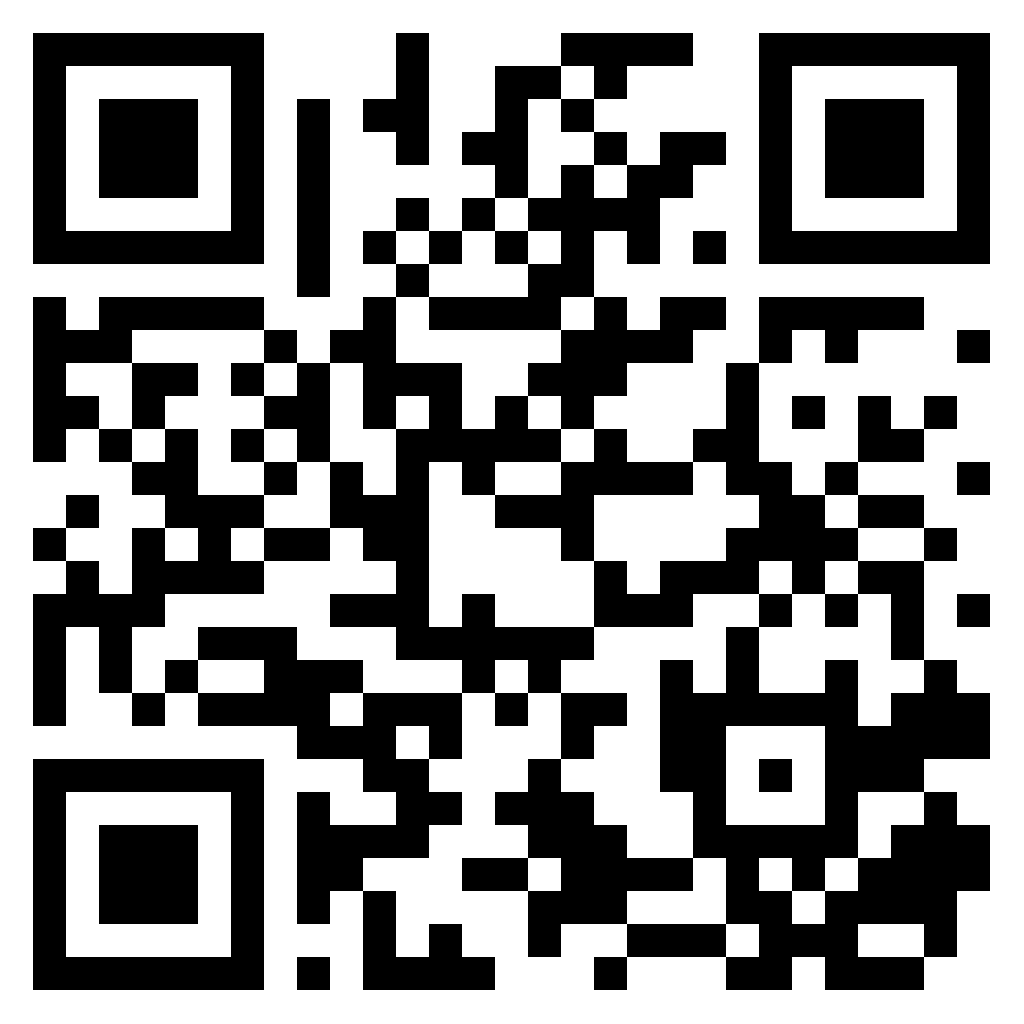
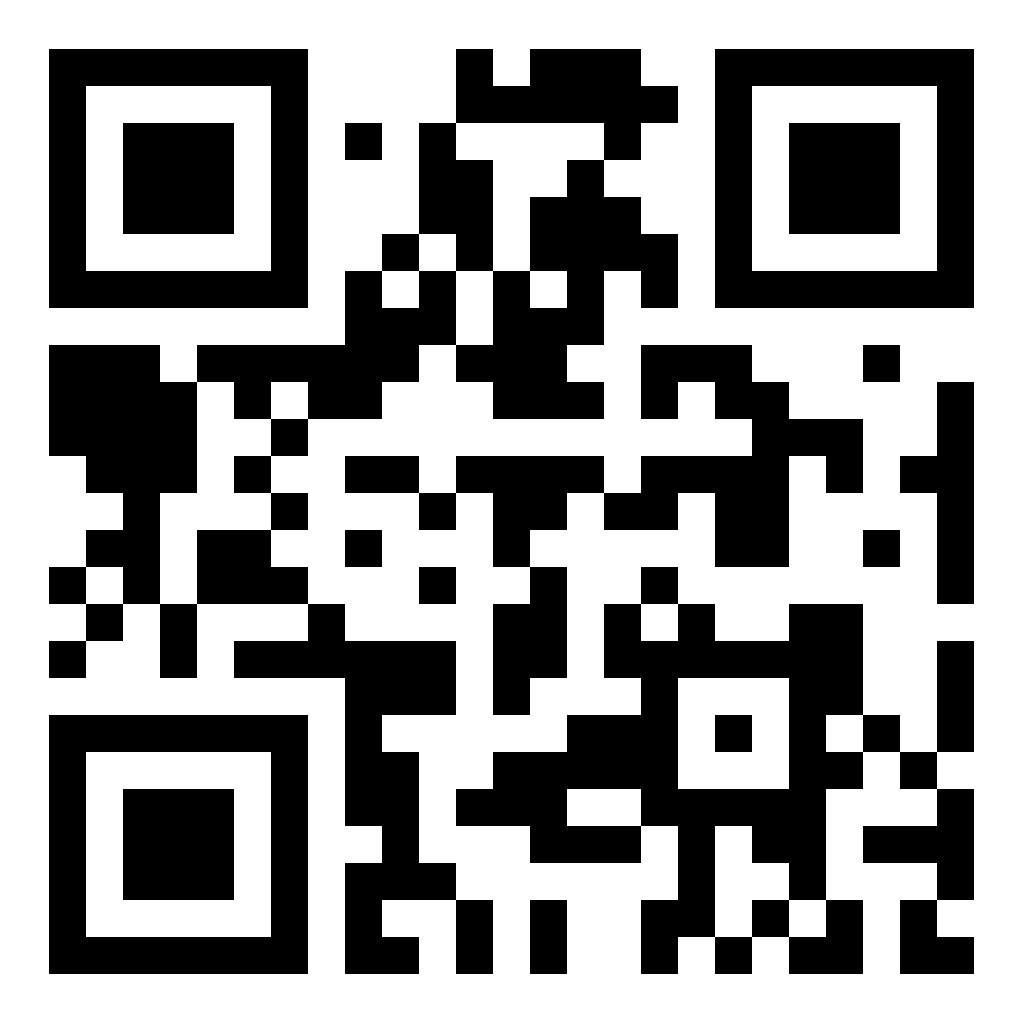
fix to url routes

diff --git a/templates/first_lens_form.html b/templates/first_lens_form.html
@@ -28,13 +28,14 @@
         </label>
         <hr>
 
+        <h1>Add an experience</h1>
+        <hr>
         <strong>Progress (0/6)</strong>
         <div class="progress">
             <div class="progress-bar" role="progressbar" aria-valuenow="0" aria-valuemin="0" aria-valuemax="100"></div>
         </div>
         <hr>
 
-            <h1>Add an experience</h1>
 
             <h2>1. Name your experience</h2>
             

diff --git a/templates/view_community.html b/templates/view_community.html
@@ -14,7 +14,7 @@
 
             <p>{{ community.code }}</p>
 
-            <img width="300" height="300" src="{{ qrcode }}">
+            <img loading=lazy width="300" height="300" src="{{ qrcode }}">
 
             <a href="{{ community_url }}">Link to Community</a>
 

diff --git a/webapp/src/handlers/community_handler.rs b/webapp/src/handlers/community_handler.rs
@@ -85,7 +85,7 @@ pub async fn view_community(
 
     let host_name = req.app_config().host();
 
-    let community_url = format!("https://{}/community/{}", host_name, &community_slug);
+    let community_url = format!("/community/{}", &community_slug);
 
     // qr_code
     if !Path::new(&format!("webapp/static/tmp/{}.png",community_slug)).exists() {
@@ -101,7 +101,7 @@ pub async fn view_community(
     let community = Communities::find_from_slug(&community_slug).expect("Could not load community");
     ctx.insert("community", &community);
 
-    let community_add_profile_url = format!("https://{}/first_lens_form/{}", host_name, &community.code);
+    let community_add_profile_url = format!("/first_lens_form/{}", &community.code);
     ctx.insert("add_community_profile_url", &community_add_profile_url);
 
     let rendered = data.tmpl.render("view_community.html", &ctx).unwrap();
